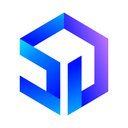
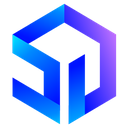
fix(desktop): draw the rail mark without the white tile
The brand artwork moved to the rounded light variant in 6614a0c4, and that PNG
fills its 128px canvas with a white rounded square: 94.6% of its pixels are
opaque and 65% of them are pure white. The rail paints it at 32px on a #f5f5f5
surface, so what a person sees is a white tile, not the mark.

Replace the asset with the transparent cut of the same artwork - the official
light logo cropped to the mark, wordmark removed - and correct the stylesheet
comment that described a tile.

Four surfaces paint this file: the rail, the wizard header, the sign-in header
and the skill-import marks. All four sit on #fff or #f5f5f5, so only the asset
changes; docs/images/logo.png and the installer icons keep their tile on
purpose, because an OS icon is shown against unknown desktop backgrounds.

Changed region(s): [[0.0938, 0.0312, 0.9375, 0.9688]]

diff --git a/apps/desktop/src/styles/design.css b/apps/desktop/src/styles/design.css
@@ -83,10 +83,9 @@ body.is-resizing {
   z-index: 3;
 }
 
-/* The application mark: its own dark tile and gradient monogram, so the rail
-   draws the artwork rather than a coloured box around a glyph. 128px is four
-   times the 32px it is shown at, which keeps the gradient smooth on a retina
-   screen. */
+/* The application mark: transparent artwork, so the rail draws the mark itself
+   rather than a tile around a glyph. 128px is four times the 32px it is shown
+   at, which keeps the gradient smooth on a retina screen. */
 .rail-logo {
   width: 32px;
   height: 32px;
